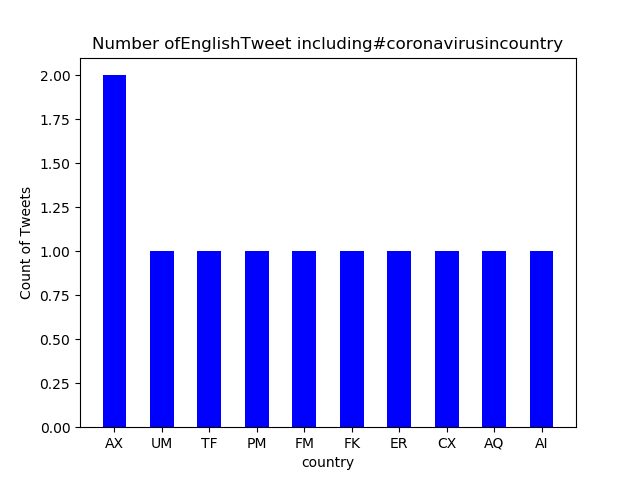
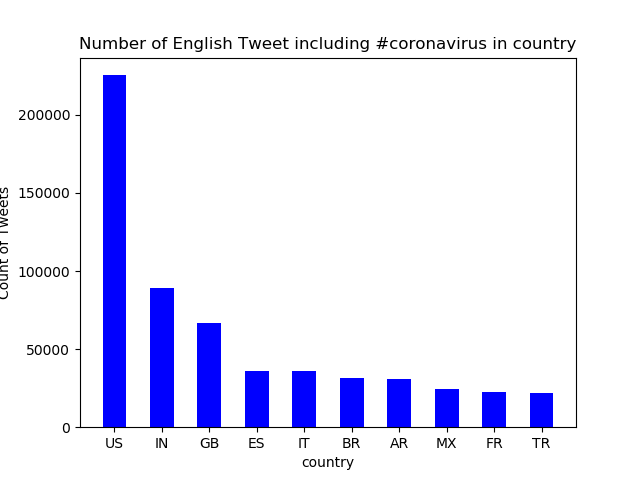
reverse order

diff --git a/src/visualize.py b/src/visualize.py
@@ -20,7 +20,7 @@ if os.environ.get('DISPLAY','') == '':
     mpl.use('Agg')
 import matplotlib.pyplot as plt
 import matplotlib.font_manager as fm
-plt.rcParams['font.family'] = ['Noto Sans CJK', 'DejaVu Sans']
+plt.rcParams['font.family'] = ['Noto Sans CJK', 'DejaVu Sans','sans-serif']
 
 # open the input path
 with open(args.input_path) as f:
@@ -43,8 +43,9 @@ for k,v in items:
 #plt.rcParams['font.family'] = ['Noto Sans CJK', 'DejaVu Sans'] 
 
 # top 10
-items_top = items[-10:]
+items_top = items[:10]
 x,y = zip(*items_top)
+print(x,y)
 
 # English or Korean
 if args.input_path == "reduced.country":
@@ -60,12 +61,12 @@ else:
 # plot
 
 plt.bar(range(len(x)), y, color = "blue", width = 0.5)
-print(x, len(x), range(len(x)))
+#print(x, len(x), range(len(x)))
 plt.xticks(range(len(x)),x)
 #plt.xticklabels(x)
 plt.xlabel(category)
 plt.ylabel("Count of Tweets")
-plt.title("Number of" + language + "Tweet including" + args.key + "in" + category)
+plt.title("Number of " + language + " Tweet including " + args.key + " in " + category)
 #plt.legend()
 
 plt.savefig(f"{language}_{category}.png")
